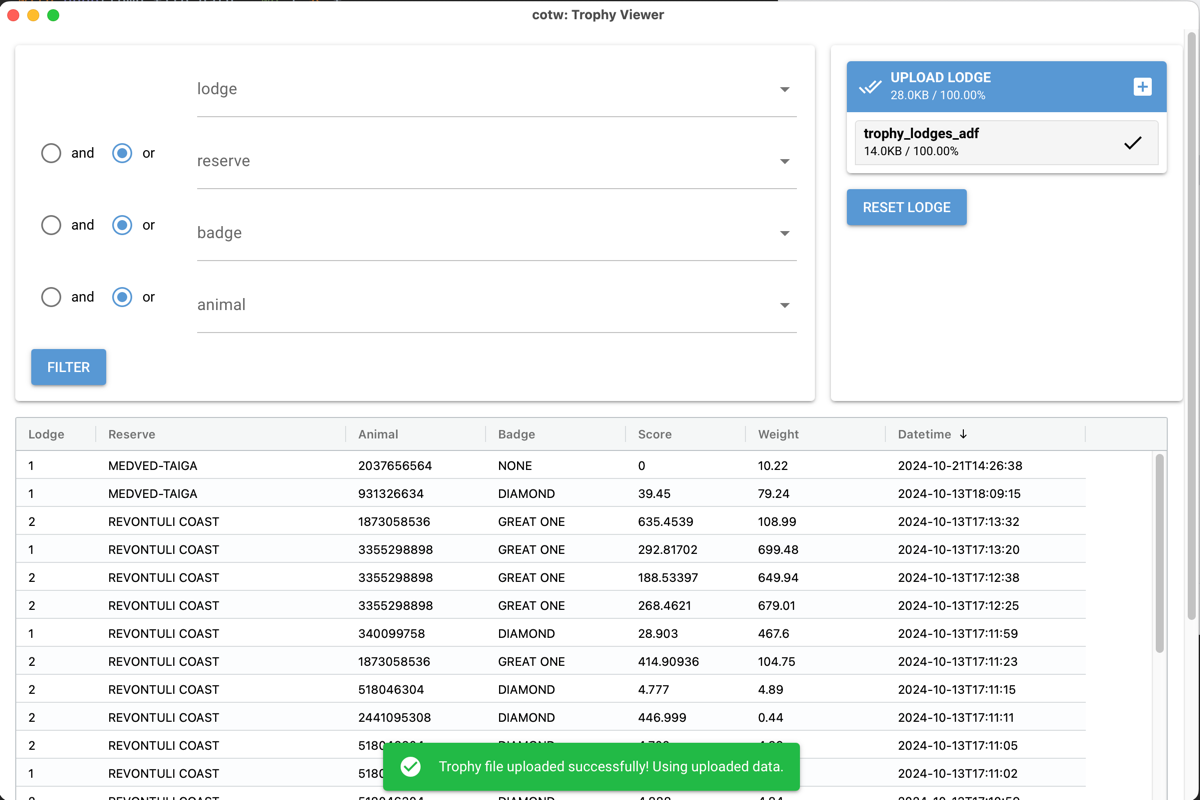
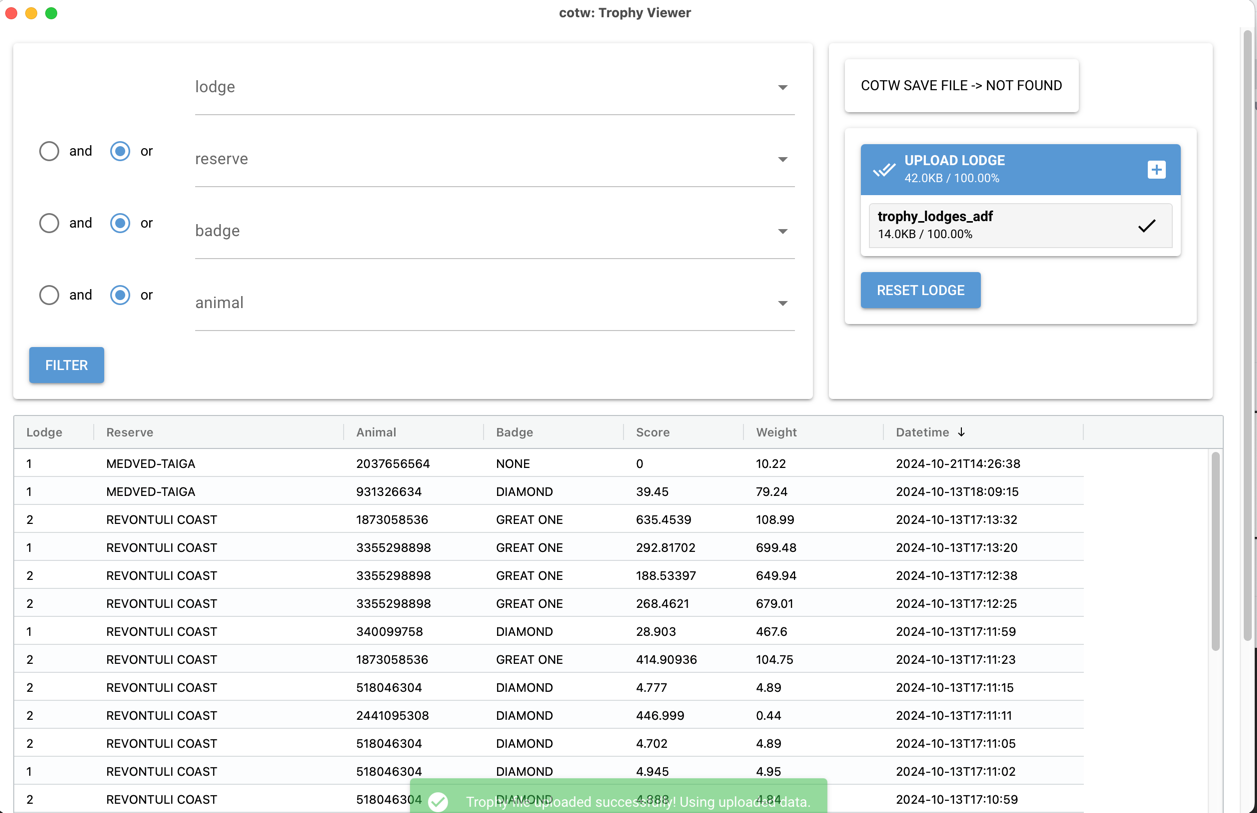
add found lodges message

diff --git a/cotw-trophy-viewer/lib/ui/homePage.py b/cotw-trophy-viewer/lib/ui/homePage.py
@@ -6,7 +6,7 @@ from nicegui import ui
 from lib.db.db import Db
 from lib.deca.config import get_save_path
 from lib.ui.utils.data import rowData
-from lib.ui.utils.formFilter import footer, dropdown, reservesOptions, animalsOptions, badgeOptions, andOr, uiFormFilter
+from lib.ui.utils.formFilter import footer, uiFormFilter
 from lib.ui.utils.grid import uiTrophyGrid
 from lib.ui.utils.paths import Paths
 from lib.ui.utils.queries import Queries
@@ -14,6 +14,7 @@ from lib.ui.utils.queries import Queries
 
 def homePage():
     paths = Paths(get_save_path())
+    trophyFileExists = paths.getLoadPath() and paths.getLoadPath().exists()
     queries = Queries()
 
     def getDb():
@@ -40,17 +41,21 @@ def homePage():
         updateGrid()
 
     with ui.grid(columns='800px auto'):
-        with ui.card():
+        with ui.card(): # filter
             with ui.grid(columns='150px 600px'):
                 uiFormFilter(getDb(), queries)
             with ui.row():
                 ui.button(text='FILTER', on_click=lambda: updateGrid())
-        with ui.card():
-            ui.upload(label='UPLOAD LODGE',
-                      on_upload=lambda e: uploadLodge(e),
-                      multiple=False,
-                      auto_upload=True).props('accept="*"').tooltip('Upload trophy_lodges_adf file')
-            ui.button(text='RESET LODGE', on_click=lambda: resetLodge())
+        with ui.card(): # files
+            with ui.row():
+                with ui.card():
+                    ui.label('COTW SAVE FILE -> ' + ('FOUND' if trophyFileExists else 'NOT FOUND'))
+            with ui.card():
+                ui.upload(label='UPLOAD LODGE',
+                          on_upload=lambda e: uploadLodge(e),
+                          multiple=False,
+                          auto_upload=True).props('accept="*"').tooltip('Upload trophy_lodges_adf file')
+                ui.button(text='RESET LODGE', on_click=lambda: resetLodge())
 
     grid = uiTrophyGrid(lambda: getRowData())
 

diff --git a/README.md b/README.md
@@ -4,7 +4,7 @@
 
 ### Installation
 
-Download release and the `.exe` locally 
+Download release and run the `.exe` locally 
 
 ### Run/build locally
 
